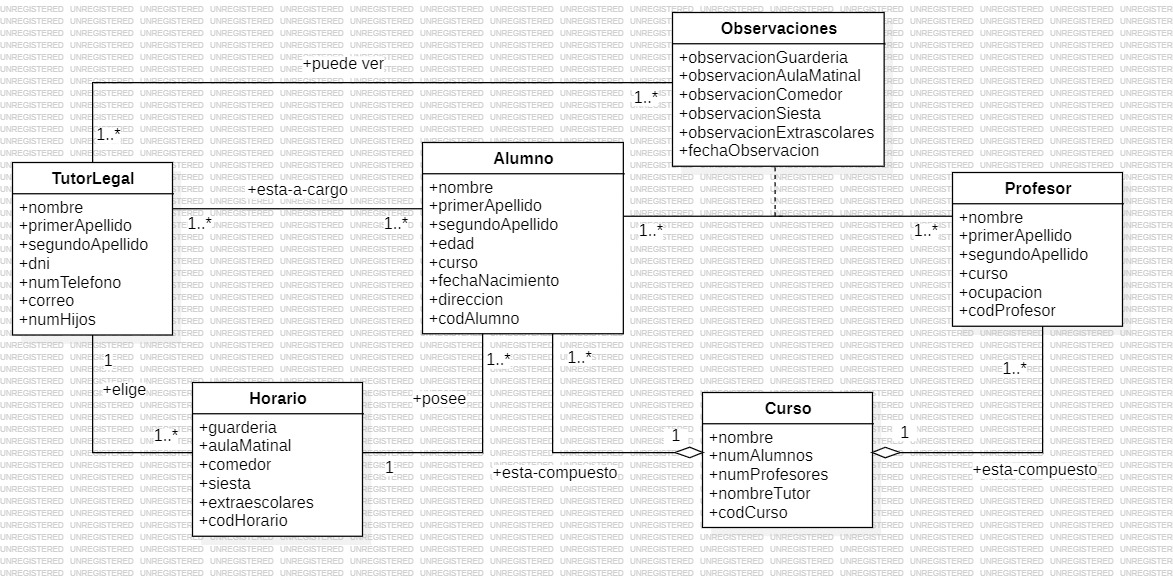
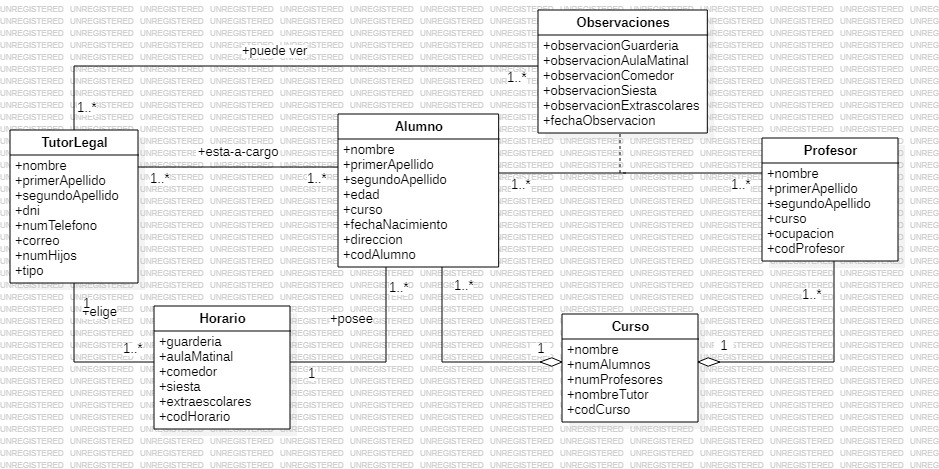
Tipo progenitor añadido

Changed region(s): [[0.0, 0.0, 1.0, 1.0], [0.6177, 0.0, 0.7103, 0.0597]]

diff --git a/LMSGI/templates/formularioEnvioDeDatos.html b/LMSGI/templates/formularioEnvioDeDatos.html
@@ -177,121 +177,7 @@
 
             <br><br>
 
-    <!---- DATOS DE LA MADRE -------------------------------------------->
-    
-                <fieldset class="justify-content-center border border-black border-3">
-                    <legend class="fw-bold border border-black border-3 border-start-0 border-end-0 border-top-0 text-black px-2 mb-3 bg-opacity-50 bg-danger">DATOS DE LA MADRE</legend>
-                    <div class="mx-3 mb-3">
-
-        <!---- NOMBRE Y APELLIDOS ------------------------------------------->
-
-                        <div class="d-flex w-100">
-                            <div class="me-3" style="flex: 1 1 33%;">
-                                <label for="nombreMadre" class="form-label m-0 fw-bold">NOMBRE<span class="text-danger"> *</span></label><br>
-                                <input type="text" class="form-control" name="nombreMadre" id="nombreMadre" placeholder="Introduzca el nombre" required maxlength="100" size="50">
-                            </div>
-                            <div class="mx-3" style="flex: 1 1 33%;">
-                                <label for="apellido1Madre" class="form-label m-0 fw-bold">PRIMER APELLIDO<span class="text-danger"> *</span></label><br>
-                                <input type="text" class="form-control" name="apellido1Madre" id="apellido1Madre" placeholder="Introduzca el primer apellido" required maxlength="100" size="50">
-                            </div>
-                            <div class="ms-3" style="flex: 1 1 33%;">
-                                <label for="apellido2Madre" class="form-label m-0 fw-bold">SEGUNDO APELLIDO</label><br>
-                                <input type="text" class="form-control" name="apellido2Madre" id="apellido2Madre" placeholder="Introduzca el segundo apellido" maxlength="100" size="50">
-                            </div>
-                        </div>
-
-        <!------------------------------------------------------------------->
-
-        <!---- TELÉFONO, CORREO Y NÚMERO DE HIJOS --------------------------->
-
-                        <div class="d-flex mt-3 w-100">
-                            <div class="me-3" style="flex: 1 1 17%;">
-                                <label for="dniMadre" class="form-label m-0 fw-bold">DNI<span class="text-danger"> *</span></label><br>
-                                <input type="text" class="form-control w-100" name="dniMadre" id="dniMadre" placeholder="Introduzca el DNI" required pattern="^[9|6|7][0-9]{8}$">
-                            </div>
-
-                            <div class="mx-3" style="flex: 1 1 25%;">
-                                <label for="telefonoMadre" class="form-label m-0 fw-bold">TELÉFONO<span class="text-danger"> *</span></label><br>
-                                <input type="text" class="form-control w-100" name="telefonoMadre" id="telefonoMadre" placeholder="Introduzca el nº de teléfono" required pattern="^[9|6|7][0-9]{8}$">
-                            </div>
-
-                            <div class="mx-3" style="flex: 1 1 40%;">
-                                <label for="correoMadre" class="form-label m-0 fw-bold">CORREO<span class="text-danger"> *</span></label><br>
-                                <input type="text" class="form-control w-100" name="correoMadre" id="correoMadre" placeholder="Introduzca el correo electrónico" required>
-                            </div>
-                            <div class="ms-3" style="flex: 1 1 18%;">
-                                <label for="numHijosMadre" class="form-label m-0 fw-bold">NÚMERO DE HIJOS</label><br>
-                                <input class="w-100" style="height: 37px;" type="number" name="numHijosMadre" id="numHijosMadre" min="1" step="1" value="1">
-                            </div>
-                        </div>
-
-        <!------------------------------------------------------------------->
-
-                    </div>
-                </fieldset>
-
-    <!------------------------------------------------------------------->
-
-            <br><br>
-
-    <!---- DATOS DEL PADRE ---------------------------------------------->
-    
-                <fieldset class="justify-content-center border border-black border-3">
-                    <legend class="fw-bold border border-black border-3 border-start-0 border-end-0 border-top-0 text-black px-2 mb-3 bg-info">DATOS DEL PADRE</legend>
-                    <div class="mx-3 mb-3">
-
-        <!---- NOMBRE Y APELLIDOS ------------------------------------------->
-
-                        <div class="d-flex w-100">
-                            <div class="me-3" style="flex: 1 1 33%;">
-                                <label for="nombrePadre" class="form-label m-0 fw-bold">NOMBRE<span class="text-danger"> *</span></label><br>
-                                <input type="text" class="form-control" name="nombrePadre" id="nombrePadre" placeholder="Introduzca el nombre" required maxlength="100" size="50">
-                            </div>
-                            <div class="mx-3" style="flex: 1 1 33%;">
-                                <label for="apellido1Padre" class="form-label m-0 fw-bold">PRIMER APELLIDO<span class="text-danger"> *</span></label><br>
-                                <input type="text" class="form-control" name="apellido1Padre" id="apellido1Padre" placeholder="Introduzca el primer apellido" required maxlength="100" size="50">
-                            </div>
-                            <div class="ms-3" style="flex: 1 1 33%;">
-                                <label for="apellido2Padre" class="form-label m-0 fw-bold">SEGUNDO APELLIDO</label><br>
-                                <input type="text" class="form-control" name="apellido2Padre" id="apellido2Padre" placeholder="Introduzca el segundo apellido" maxlength="100" size="50">
-                            </div>
-                        </div>
-
-        <!------------------------------------------------------------------->
-
-        <!---- TELÉFONO, CORREO Y NÚMERO DE HIJOS --------------------------->
-
-                        <div class="d-flex mt-3 w-100">
-                            <div class="me-3" style="flex: 1 1 17%;">
-                                <label for="dniPadre" class="form-label m-0 fw-bold">DNI<span class="text-danger"> *</span></label><br>
-                                <input type="text" class="form-control w-100" name="dniPadre" id="dniPadre" placeholder="Introduzca el DNI" required pattern="^[9|6|7][0-9]{8}$">
-                            </div>
-
-                            <div class="mx-3" style="flex: 1 1 25%;">
-                                <label for="telefonoPadre" class="form-label m-0 fw-bold">TELÉFONO<span class="text-danger"> *</span></label><br>
-                                <input type="text" class="form-control w-100" name="telefonoPadre" id="telefonoPadre" placeholder="Introduzca el nº de teléfono" required pattern="^[9|6|7][0-9]{8}$">
-                            </div>
-
-                            <div class="mx-3" style="flex: 1 1 40%;">
-                                <label for="correoPadre" class="form-label m-0 fw-bold">CORREO<span class="text-danger"> *</span></label><br>
-                                <input type="text" class="form-control w-100" name="correoPadre" id="correoPadre" placeholder="Introduzca el correo electrónico" required>
-                            </div>
-                            <div class="ms-3" style="flex: 1 1 18%;">
-                                <label for="numHijosPadre" class="form-label m-0 fw-bold">NÚMERO DE HIJOS</label><br>
-                                <input class="w-100" style="height: 37px;" type="number" name="numHijosPadre" id="numHijosPadre" min="1" step="1" value="1">
-                            </div>
-                        </div>
-
-        <!------------------------------------------------------------------->
-
-                    </div>
-                </fieldset>
-
-    <!------------------------------------------------------------------->
-
-            <br><br>
-
-    <!---- DATOS DEL TUTOR LEGAL ---------------------------------------->
+    <!---- DATOS DEL PROGENITOR ----------------------------------------->
     
                 <fieldset class="justify-content-center border border-black border-3">
                     <legend class="fw-bold border border-black border-3 border-start-0 border-end-0 border-top-0 px-2 mb-3 text-black bg-opacity-50 bg-secondary">DATOS DEL TUTOR LEGAL</legend>
@@ -300,18 +186,27 @@
         <!---- NOMBRE Y APELLIDOS ------------------------------------------->
 
                         <div class="d-flex w-100">
-                            <div class="me-3" style="flex: 1 1 33%;">
+                            <div class="me-3" style="flex: 1 1 29%;">
                                 <label for="nombreTutor" class="form-label m-0 fw-bold">NOMBRE<span class="text-danger"> *</span></label><br>
                                 <input type="text" class="form-control" name="nombreTutor" id="nombreTutor" placeholder="Introduzca el nombre" required maxlength="100" size="50">
                             </div>
-                            <div class="mx-3" style="flex: 1 1 33%;">
+                            <div class="mx-3" style="flex: 1 1 29%;">
                                 <label for="apellido1Tutor" class="form-label m-0 fw-bold">PRIMER APELLIDO<span class="text-danger"> *</span></label><br>
                                 <input type="text" class="form-control" name="apellido1Tutor" id="apellido1Tutor" placeholder="Introduzca el primer apellido" required maxlength="100" size="50">
                             </div>
-                            <div class="ms-3" style="flex: 1 1 33%;">
+                            <div class="mx-3" style="flex: 1 1 29%;">
                                 <label for="apellido2Tutor" class="form-label m-0 fw-bold">SEGUNDO APELLIDO</label><br>
                                 <input type="text" class="form-control" name="apellido2Tutor" id="apellido2Tutor" placeholder="Introduzca el segundo apellido" maxlength="100" size="50">
                             </div>
+                            <div class="ms-3" style="flex: 1 1 13%;">
+                                <label for="tipo" class="fw-bold">PROGENITOR<span class="text-danger"> *</span></label><br>
+                                <select class="form-select form-select-sm" name="tipo" id="tipo">
+                                    <option value="madre">Madre</option>
+                                    <option value="padre">Padre</option>
+                                    <option value="tutorlegal">Tutor legal</option>
+                                </select>
+                            </div>
+
                         </div>
 
         <!------------------------------------------------------------------->

diff --git a/Proyecto_Guarderia/src/main/java/com/salesianostriana/dam/proyecto_guarderia/servicio/AlumnoServicio.java b/Proyecto_Guarderia/src/main/java/com/salesianostriana/dam/proyecto_guarderia/servicio/AlumnoServicio.java
@@ -4,9 +4,9 @@ import org.springframework.stereotype.Service;
 
 import com.salesianostriana.dam.proyecto_guarderia.modelo.Alumno;
 import com.salesianostriana.dam.proyecto_guarderia.repositorio.AlumnoRepositorio;
-import com.salesianostriana.dam.proyecto_guarderia.servicio.base.ServicioBaseImp;
+import com.salesianostriana.dam.proyecto_guarderia.servicio.base.ServicioBaseImpl;
 
 @Service
-public class AlumnoServicio extends ServicioBaseImp<Alumno, Long, AlumnoRepositorio>{ 
+public class AlumnoServicio extends ServicioBaseImpl<Alumno, Long, AlumnoRepositorio>{ 
 
 }

diff --git a/Proyecto_Guarderia/src/main/java/com/salesianostriana/dam/proyecto_guarderia/servicio/base/ServicioBaseImpl.java b/Proyecto_Guarderia/src/main/java/com/salesianostriana/dam/proyecto_guarderia/servicio/base/ServicioBaseImpl.java
@@ -6,7 +6,7 @@ import java.util.Optional;
 import org.springframework.beans.factory.annotation.Autowired;
 import org.springframework.data.jpa.repository.JpaRepository;
 
-public abstract class ServicioBaseImp<T, ID, R extends JpaRepository<T, ID>> 
+public abstract class ServicioBaseImpl<T, ID, R extends JpaRepository<T, ID>> 
 implements ServicioBase<T, ID> { 
 
 	@Autowired

diff --git a/Proyecto_Guarderia/src/main/java/com/salesianostriana/dam/proyecto_guarderia/controlador/AlumnoControlador.java b/Proyecto_Guarderia/src/main/java/com/salesianostriana/dam/proyecto_guarderia/controlador/AlumnoControlador.java
@@ -23,6 +23,9 @@ public class AlumnoControlador {
 		Alumno alumno = new Alumno();
 		model.addAttribute("formularioEnvioDeDatos", alumno);
 		
+		Alumno TutorLegal = new TutorLegal();
+		model.addAttribute("formularioEnvioDeDatos", tutorLegal);
+		
 		return "formularioEnvioDeDatos";
 	}
 	
